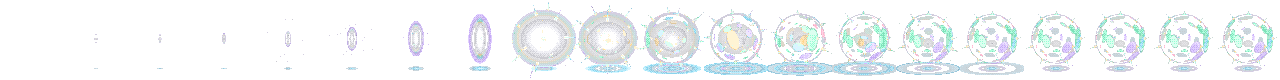
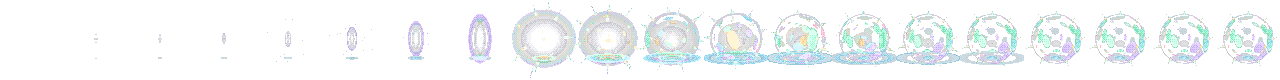
feat: enhance rift mechanics by adding core tile management for anomaly interactions, refining rendering logic for rift visuals, and updating asset images to improve gameplay immersion

Changed region(s): [[0.3125, 0.625, 1.0, 0.95], [0.25, 0.7, 0.2812, 0.75], [0.2188, 0.85, 0.2812, 0.875]]

diff --git a/client/src/game/game.ts b/client/src/game/game.ts
@@ -133,8 +133,7 @@ const RIFT_TOOLTIP_LIFT_TILES = 1.9;
  */
 const RIFT_CROWN_FRACTION = 0.55;
 const RIFT_BURST_FRACTION = 0.4;
-/** Capstone height and sphere height above their contact points, in world px. */
-const RIFT_CROWN_LIFT = 42;
+/** Sphere height above its anchor, in world px — where burst debris starts. */
 const RIFT_BURST_LIFT = 34;
 /** Distance between boot prints, in tiles. One stride, not one frame. */
 const FOOTPRINT_STRIDE = 0.9;
@@ -2361,23 +2360,22 @@ export class Game {
     const beacon = palette().scene.beacon;
     const beaconCss = `rgb(${beacon[0]} ${beacon[1]} ${beacon[2]})`;
 
-    // A stone catching. One light and a small shove each, so the four of them
+    // A stone catching. A small shove and a note each, so the four of them
     // walking around the ring are four separate events rather than one long
     // brightening — the punctuation is what sells the stagger.
     //
-    // KEPT SHORT AND SMALL, and the LIFE matters more than the radius. These
-    // are `ctx.arc` radial gradients: at a muzzle flash's size but four times
-    // its duration they stop reading as a flash and start reading as a drawn
-    // blue disc sitting on the floor. Every other event light in this game is
-    // under 0.15 s (see `spawnShot`, `spawnGoldPickup`) and this belongs on
-    // that ladder — the crown SHEET is what carries the glow; this is only the
-    // ground noticing.
+    // NO POINT LIGHT. `Effects.spawnLight` is a `ctx.arc` radial gradient in
+    // WORLD pixels, and the world is drawn at `ARENA_ZOOM` — so a radius that
+    // reads as modest in this file arrives on screen multiplied by the zoom and
+    // covers half the viewport as a hard-edged disc. Every existing caller gets
+    // away with it by being over in about a tenth of a second; a beat you are
+    // meant to WATCH cannot hide behind that. The glow belongs to the sheets,
+    // which are pixel art and lit like everything else — see `crown` and
+    // `emerge` in `make_rift.py`.
     for (let i = 0; i < rift.pillars.length; i++) {
       const at = timing.consoleLag + i * timing.pillarStagger
         + timing.chargeTime * RIFT_CROWN_FRACTION;
       if (before < at && after >= at) {
-        const pillar = rift.pillars[i];
-        this.effects.spawnLight(pillar.x, pillar.y - RIFT_CROWN_LIFT, 34, 0.5, beaconCss, 0.13);
         this.camera.addTrauma(0.08);
         // Four of these in a row is a rising figure, which is the whole reason
         // the stones are staggered. Borrowed from the loot-reveal chime for
@@ -2393,9 +2391,9 @@ export class Game {
     }
     const burst = timing.emergeAt + timing.emergeTime * RIFT_BURST_FRACTION;
     if (before < burst && after >= burst) {
-      // The biggest light in the game, and still a flash: half a second of a
-      // 13-tile disc was a wall of blue, not an event.
-      this.effects.spawnLight(rift.anomalyX, rift.anomalyY, 96, 0.8, beaconCss, 0.22);
+      // Same reason: the sheet already whites the whole frame out on this
+      // exact frame. A gradient disc on top of it only adds the one thing the
+      // sheet does not have — a hard circular edge.
       this.camera.addTrauma(0.42);
       playSfx('kindle');
       for (let i = 0; i < 22; i++) {

diff --git a/client/src/game/world.ts b/client/src/game/world.ts
@@ -95,6 +95,13 @@ export interface Rift {
   consoleX: number;
   consoleY: number;
   pillars: readonly RiftPillar[];
+  /**
+   * Tiles the anomaly occupies once it exists, `[tx, ty]`. Solid only from the
+   * moment it OPENS — while the structure is dormant the sigil is a mark on the
+   * floor and you are meant to be able to stand in it. Shipped by the server
+   * rather than re-derived, so both sides wall off exactly the same cells.
+   */
+  core: readonly (readonly [number, number])[];
   lightTiles: number;
   lightKind: number;
   state: RiftState;
@@ -192,6 +199,15 @@ export class TileMap {
     if (state === 'open') this.lightRift();
   }
 
+  /**
+   * The anomaly now occupies its tiles. Mirrors `Room.solidify_rift`, on the
+   * same transition and off the same list, so prediction does not walk into
+   * ground the server has just made solid (or bounce off ground it has not).
+   */
+  private solidifyRift(): void {
+    for (const [tx, ty] of this.rift?.core ?? []) this.setTile(tx, ty, LOW);
+  }
+
   /** Advance the local ceremony clock. Called once per frame while charging. */
   stepRift(dt: number): void {
     if (this.rift?.state === 'charging') this.rift.elapsed += dt;
@@ -208,6 +224,7 @@ export class TileMap {
   private lightRift(): void {
     const rift = this.rift;
     if (!rift) return;
+    this.solidifyRift();
     const lights = this.scenery.lights as SceneryLight[];
     if (lights.some((light) => light.x === rift.x && light.y === rift.y)) return;
     lights.push({
@@ -399,6 +416,7 @@ function unpackRift(payload: MapPayload): Rift | null {
     consoleX: row.console[0],
     consoleY: row.console[1],
     pillars: row.pillars.map(([x, y, shape]) => ({ x, y, shape })),
+    core: (row.core ?? []).map(([tx, ty]) => [tx, ty] as const),
     lightTiles: row.lightTiles,
     lightKind: row.lightKind,
     state: row.state,

diff --git a/client/src/net/protocol.ts b/client/src/net/protocol.ts
@@ -380,6 +380,8 @@ export interface RiftPayload {
   console: [number, number];
   /** `[x, y, shape]` per stone. `shape` indexes the pillar sheet's four cuts. */
   pillars: [number, number, number][];
+  /** `[tx, ty]` the anomaly occupies — solid only once it opens. */
+  core?: [number, number][];
   lightTiles: number;
   /** Scene-light kind. 2 is `beacon` — see `theme/palette.ts`. */
   lightKind: number;

diff --git a/server/tools/make_rift.py b/server/tools/make_rift.py
@@ -1103,23 +1103,30 @@ def _anomaly(
     _shell(prism, cx, cy, rx, ry, spin, bright, shear, opened)
     _spines(prism, cx, cy, rx, ry, spin, bright, phase, reach)
 
-    # It is HOVERING, and the ground under it has to say so. A bloom with a ring
-    # riding out of it, breathing on the same phase as everything else.
+    # It is HOVERING, and the ground under it has to say so.
+    #
+    # THE POOL IS MEASURED FROM THE SPHERE, not from a floor row. This effect
+    # never touches the ground, so `contact_y` was a fiction inherited from the
+    # sheets that do — and pinning the pool to it left the glow a full sphere
+    # further down than the ball, landing on the far rim of the sigil instead
+    # of inside it. Under the sphere's own lower edge is where light cast by a
+    # hovering object actually falls.
+    floor_y = cy + ry * 0.78
     bloom = 0.85 + 0.15 * math.sin(phase)
     # The pool on the floor is COOL — cyan into violet at its rim, the same
     # gradient the pillars run and the coldest end of the prism. Mint made it
     # the greenest thing on screen and pulled the eye off the sphere onto the
     # dirt underneath it, which is the wrong half of the object.
-    prism.ellipse(cx, contact_y, rx * 0.52 * bloom, ry * 0.13 * bloom,
+    prism.ellipse(cx, floor_y, rx * 0.52 * bloom, ry * 0.13 * bloom,
                   0.95 * bright * opened, CYAN)
-    prism.ellipse(cx, contact_y, rx * 0.66 * bloom, ry * 0.16 * bloom,
+    prism.ellipse(cx, floor_y, rx * 0.66 * bloom, ry * 0.16 * bloom,
                   0.34 * bright * opened, VIOLET, hollow=0.40)
 
     # Motes falling INTO it out of the ground: the rift is taking, not giving.
     for i in range(7):
         drift = ((phase / math.tau) + i / 7.0) % 1.0
         mx = int(round(cx + math.sin(phase + i * 1.9) * rx * 0.7))
-        my = int(round(contact_y - drift * (contact_y - cy - ry * 0.4)))
+        my = int(round(floor_y - drift * (floor_y - cy - ry * 0.4)))
         prism.add(mx, my, bright * 0.55 * (1.0 - drift) * opened,
                   CELL_TABLE[i * 5 % len(CELL_TABLE)][4])
 
@@ -1188,6 +1195,9 @@ def make_emerge_frame(
     cx = (width - 1) / 2.0
     cy = _hover_y(contact_y, radius)
     rest_spin, rest_x, rest_y, rest_bright, rest_instability = _rift_state(0.0)
+    # Same rule as `_anomaly`: the floor this throws light onto is under the
+    # SPHERE, not at the bottom of the frame.
+    floor_y = cy + radius * rest_y * 0.78
 
     # --- SEAM: a hairline splits, and the air starts falling into it ---------
     if t < EMERGE_BURST:
@@ -1202,7 +1212,7 @@ def make_emerge_frame(
         prism.ellipse(cx, cy, lens_w, lens_h, wake * (0.85 + opening * 1.35), CORE)
         prism.ellipse(cx, cy, lens_w * 1.7, lens_h * 1.12,
                       wake * (0.35 + opening * 0.55), VIOLET, hollow=0.40)
-        prism.ellipse(cx, contact_y, radius * (0.20 + opening * 0.45),
+        prism.ellipse(cx, floor_y, radius * (0.20 + opening * 0.45),
                       radius * (0.05 + opening * 0.12),
                       wake * (0.45 + opening * 0.85), CYAN)
         # Specks pulled IN, against the way everything flies at the burst. The
@@ -1249,7 +1259,7 @@ def make_emerge_frame(
             if not 0.0 < wave < 1.0:
                 continue
             spread = ease_out(wave)
-            prism.ellipse(cx, contact_y, radius * (0.3 + spread * 1.15),
+            prism.ellipse(cx, floor_y, radius * (0.3 + spread * 1.15),
                           radius * (0.07 + spread * 0.22),
                           (1.0 - wave) * 1.45 * weight, CYAN, hollow=0.5)
         for i in range(20):

diff --git a/server/app/rift.py b/server/app/rift.py
@@ -69,7 +69,11 @@ _CENTRE = (PLOT / 2.0, PLOT / 2.0)
 #: scar and actually sit in it.
 _ANOMALY = _CENTRE
 
-#: Tiles within this of the centre become solid, so nobody walks INTO the rift.
+#: Tiles within this of the centre become solid ONCE THE RIFT IS OPEN, so
+#: nobody walks into it. While the structure is dormant the sigil is just a
+#: mark on the floor and you can stand in the middle of it — there is nothing
+#: there yet, and an invisible wall around empty ground is the worst bug a 2D
+#: game can have because the screen contradicts it.
 #:
 #: LOW, not PROP: waist-high cover is the only kind that is solid to bodies
 #: while staying transparent to light, and a sight-blocking core would throw a
@@ -133,6 +137,9 @@ class Rift:
     anomaly_x: float
     anomaly_y: float
     pillars: tuple[tuple[float, float, int], ...]
+    #: Tiles the anomaly occupies once it exists. Shipped rather than
+    #: re-derived so both sides solidify exactly the same cells.
+    core: tuple[tuple[int, int], ...] = ()
     state: str = DORMANT
     #: Seconds since the console was pressed. Only meaningful while CHARGING,
     #: and it is on the wire so a player who joins mid-sequence sees the rest
@@ -161,6 +168,7 @@ class Rift:
             "anomaly": [round(self.anomaly_x, 1), round(self.anomaly_y, 1)],
             "console": [round(self.console_x, 1), round(self.console_y, 1)],
             "pillars": [[round(px, 1), round(py, 1), shape] for px, py, shape in self.pillars],
+            "core": [[cx, cy] for cx, cy in self.core],
             "lightTiles": LIGHT_TILES,
             "lightKind": LIGHT_KIND,
             **self.state_payload(),
@@ -184,6 +192,7 @@ def from_payload(row: dict | None) -> Rift | None:
         console_x=float(row["console"][0]),
         console_y=float(row["console"][1]),
         pillars=tuple((float(p[0]), float(p[1]), int(p[2])) for p in row["pillars"]),
+        core=tuple((int(c[0]), int(c[1])) for c in row.get("core", ())),
         state=str(row.get("state", DORMANT)),
         elapsed=float(row.get("t", 0.0)),
     )
@@ -365,15 +374,20 @@ def _stamp(tiles: list[list[int]], tx: int, ty: int) -> Rift:
     cy = int(math.floor(ty + _CONSOLE[1] - 1e-6))
     tiles[cy][cx] = LOW
 
-    # The anomaly's own footprint. Measured from tile CENTRES against the plot
-    # centre, so the block is a disc rather than a square — the sphere is round
-    # and the collision should agree with the silhouette.
-    for oy in range(PLOT):
-        for ox in range(PLOT):
-            if math.hypot(ox + 0.5 - _CENTRE[0], oy + 0.5 - _CENTRE[1]) <= CORE_RADIUS_TILES:
-                tiles[ty + oy][tx + ox] = LOW
+    # The anomaly's own footprint, WORKED OUT BUT NOT STAMPED. These tiles stay
+    # walkable until the rift actually opens — see `CORE_RADIUS_TILES`.
+    # Measured from tile CENTRES against the plot centre, so the block is a disc
+    # rather than a square: the sphere is round and the collision should agree
+    # with the silhouette.
+    core = tuple(
+        (tx + ox, ty + oy)
+        for oy in range(PLOT)
+        for ox in range(PLOT)
+        if math.hypot(ox + 0.5 - _CENTRE[0], oy + 0.5 - _CENTRE[1]) <= CORE_RADIUS_TILES
+    )
 
     return Rift(
+        core=core,
         tx=tx,
         ty=ty,
         x=(tx + _CENTRE[0]) * TILE_SIZE,

diff --git a/server/app/room.py b/server/app/room.py
@@ -61,7 +61,7 @@ from .crates import Crate
 from .rift import Rift
 from .loot import Drop
 from .enemies import Enemy, EnemyType, dress
-from .world import FLOOR
+from .world import FLOOR, LOW
 from .entities import InputCmd, Player, clean_name, pick_color, random_name
 from .pathing import Navigator
 from .simulation import apply_input
@@ -173,6 +173,10 @@ class Room:
         """Hydrate the extraction point from the map the generator left behind."""
         self.rift = rift.from_payload(self.world.rift)
         self._rift_dirty = False
+        # A map that arrives already open (nothing does today, but the payload
+        # can say so) has to come back with its core solid.
+        if self.rift is not None and self.rift.state == rift.OPEN:
+            self.solidify_rift()
 
     # --- lifecycle ----------------------------------------------------------
     def start(self) -> None:
@@ -608,6 +612,25 @@ class Room:
         """Run the activation sequence. Marks dirty only on the transition."""
         if self.rift is not None and self.rift.step(dt):
             self._rift_dirty = True
+            self.solidify_rift()
+
+    def solidify_rift(self) -> None:
+        """The anomaly now occupies its tiles, so nobody may stand in it.
+
+        Deferred to the moment it OPENS rather than done at generation: while
+        the structure is dormant the sigil is a mark on the floor and walking
+        across it is the whole invitation. The client does the same on the same
+        transition (`TileMap.setRiftState`), off the same tile list, so
+        prediction and the server agree about the wall that just appeared.
+
+        Cannot seal anything off: the core is interior to the plot and the plot
+        was cleared to floor, so the ring around it is always a way past.
+        """
+        if self.rift is None:
+            return
+        for tx, ty in self.rift.core:
+            self.world.set_tile(tx, ty, LOW)
+        self.navigator.invalidate()
 
     def step_players(self, dt: float) -> None:
         if self.departing:
